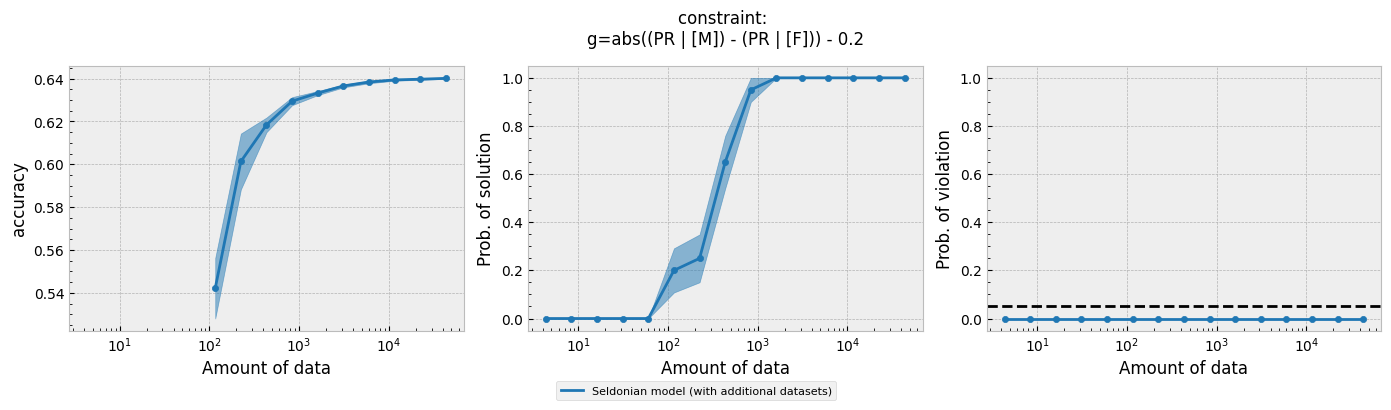
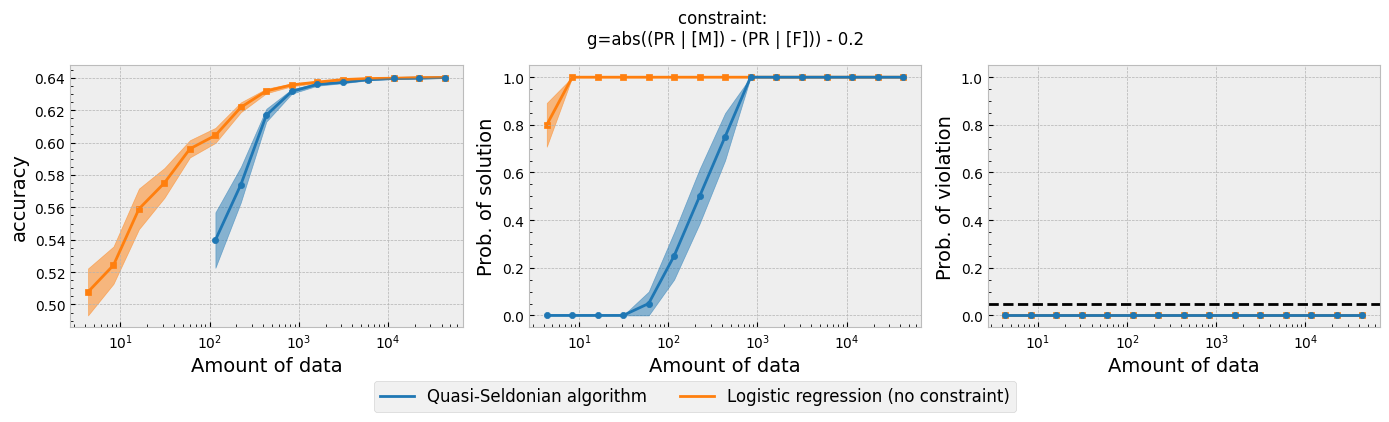
make first draft of addl datasets tutorial live

diff --git a/_includes/header.html b/_includes/header.html
@@ -99,6 +99,8 @@ src="https://www.facebook.com/tr?id=1699336040584421&ev=PageView&noscript=1"
                             <li><a class="dropdown-item" href="{{ "/tutorials/dtree_tutorial/" | relative_url}}"> (L) Creating Fair Decision Trees and Random Forests (for binary classification) </a></li>
 
                             <li><a class="dropdown-item" href="{{ "/tutorials/parallelization_tutorial/" | relative_url}}"> (M) Efficient parallelization with the toolkit </a></li>
+
+                            <li><a class="dropdown-item" href="{{ "/tutorials/addl_datasets_tutorial/" | relative_url}}"> (N) Using multiple datasets with the toolkit </a></li>
                             
 
                         </ul>

diff --git a/_tutorials/addl_datasets.md b/_tutorials/addl_datasets.md
@@ -8,7 +8,7 @@ prev_page_name: (M) Efficient parallelization with the toolkit
 <!-- Main Container -->
 <div class="container p-3 my-2 border" style="background-color: #f3f4fc;">
     
-<h2 align="center" class="mb-3">Tutorial N: Using additional datasets for constraints </h2>
+<h2 align="center" class="mb-3">Tutorial N: Using multiple datasets with the toolkit </h2>
 
 <hr class="my-4">
 
@@ -43,7 +43,10 @@ prev_page_name: (M) Efficient parallelization with the toolkit
 </p>
 
 <p>
-    <b>Note:</b> It is important to ensure that if there are shared data points between the primary dataset and additional datasets that no data points that are used in candidate selection for any purpose are used during the safety test. We leave this up to the user; there are no checks in the Seldonian Toolkit to ensure that no data are shared.
+    <b>Note 1:</b> It is important to ensure that if there are shared data points between the primary dataset and additional datasets that no data points that are used in candidate selection for any purpose are used during the safety test. We leave this up to the user; there are no checks in the Seldonian Toolkit to ensure that no data are shared.
+</p>
+<p>
+    <b>Note 2:</b> Additional datasets are currently only supported for Supervised Learning problems with the toolkit.
 </p>
 
 
@@ -424,19 +427,23 @@ if __name__ == '__main__':
 <div class="container p-3 my-2 border" style="background-color: #f3f4fc;">
 <h3 id="experiment"> Running a Seldonian Experiment with Additional Datasets </h3>
 <p>
-    As we saw in the previous section, running the engine with additional datasets requires very little modification beyond the normal procedure. The only differences were the inclusion of the <code class="codesnippet">additional_datasets</code>, <code class="codesnippet">candidate_dataset</code>, and <code class="codesnippet">safety_dataset</code> parameters when building the spec object. We will use the same spec object to run an experiment. There are some additional points we need to consider with experiments that have additional datasets. 
+    As we saw in the previous section, running the engine with additional datasets requires very little modification beyond the normal procedure. The only requirement is the inclusion of the <code class="codesnippet">additional_datasets</code> parameter. We also introduced the <code class="codesnippet">candidate_dataset</code> and <code class="codesnippet">safety_dataset</code> parameters, but those are not necessary for all additional dataset applications. When running Seldonian Experiments with additional datasets for the base noddes, there are some additional considerations beyond what we have covered so far.
 </p>
 
 <p>
-    Both the primary dataset and the additional datasets are resampled when making the trial datasets. After running an experiment with primary and additional datasets, you will notice that there are multiple sets of files in the <code class="codesnippet">resampled_datasets/</code> folder, one with the file pattern: <code class="codesnippet">resampled_datasets/trial_{trial_index}.pkl</code> and another with <code class="codesnippet">resampled_datasets/trial_{trial_index}_addl_datasets.pkl</code>. The latter contain the additional datasets dictionaries to be used for each trial. As with the resampled primary datasets, the resampled additional datasets are of the same size as the original resampled datasets provided in the spec object. This happens behind the scenes, and does not require any user input to enable it. 
+    Both the primary dataset and the additional datasets are resampled when the trial datasets are made. After running an experiment with primary and additional datasets, you will notice that there are multiple sets of files in the <code class="codesnippet">resampled_datasets/</code> folder. The resampled primary datasets keep the extant file pattern: <code class="codesnippet">resampled_datasets/trial_{trial_index}.pkl</code>, and the additional resampled dataset dictionaries are saved with the pattern <code class="codesnippet">resampled_datasets/trial_{trial_index}_addl_datasets.pkl</code>. As with the resampled primary datasets, the resampled additional datasets are of the same size as the original resampled datasets provided in the spec object. This happens behind the scenes, and does not require any user input to enable. 
 </p>
 
 <p>
-    Seldonian experiments require held-out ground truth datasets to evaluate two of the three plots. These are the performance plot (left plot) and probability of constraint violation plot (right plot). Until the introduction of additional datasets, both plots were evaluated on a single held out dataset. With the introduction of additional datasets, however, we support providing a held out primary dataset and held out additional datasets. The held out primary dataset is used to evaluate the performance plot and the held out additional datasets are used to evaluate the probability of constraint violation plot. 
+    When the spec object contains explicit candidate and safety datasets, as in our example spec object above, the primary resampled datasets are saved with the file pattern: <code class="codesnippet">resampled_datasets/trial_{trial_index}_candidate_dataset.pkl</code> and <code class="codesnippet">resampled_datasets/trial_{trial_index}_safety_dataset.pkl</code>. The additional resampled dataset files are unaffected. 
 </p>
 
 <p>
-    The held out primary dataset is provided in the same way as it has always been provided, i.e., via the <code class="codesnippet">perf_eval_kwargs</code> dictionary parameter to the plot generator object. The held out additional datasets are provided via the <code class="codesnippet">"additional_datasets"</code> key to the <code class="codesnippet">constraint_eval_kwargs</code> dictionary parameter to the plot generator object. Below is an example script to run a Seldonian experiment using a held out primary dataset and a held out additional dataset for both base nodes. All of the other parameters are identical to the experiment run in <a href="{{ "/tutorials/science_GPA_tutorial" | relative_url }}">Tutorial E: Predicting student GPAs from application materials with fairness guarantees</a>, except that here we do not run any of the baselines because the baseline results are identical to those in Tutorial E. 
+    Seldonian experiments require held-out ground truth datasets to evaluate the first plot (performance) and last plot (probability of constraint violation plot). Until the introduction of additional datasets, both plots were evaluated using a single held out dataset. With the introduction of additional datasets, we added support for providing held out datasets for the primary dataset and additional datasets separately. The held out primary dataset is used to evaluate the performance plot and the held out additional datasets are used to evaluate the probability of constraint violation plot. 
+</p>
+
+<p>
+    The held out primary dataset is provided using the extant pattern, i.e., via the <code class="codesnippet">perf_eval_kwargs</code> dictionary parameter to the plot generator object. The held out additional datasets are provided via the <code class="codesnippet">"additional_datasets"</code> key to the <code class="codesnippet">constraint_eval_kwargs</code> dictionary parameter to the plot generator object. Below is an example script to run a Seldonian experiment using a held out primary dataset and a held out additional dataset for both base nodes. The held out primary dataset is the original dataset from Tutorial E, and the held out additional datasets are the additional datasets we defined for the spec object above. Below is a script to run this experiment. Besides for the modifications just described, the script is very similar to the one used to run the experiment in Tutorial E. We include a binary logistic regressor as a baseline, but exclude the Fairlearn baselines in this tutorial. 
 </p>
 
 
@@ -444,19 +451,17 @@ if __name__ == '__main__':
 <input type="button" style="float: right" class="btn btn-sm btn-secondary" onclick="copy2Clipboard(this)" value="Copy code snippet">
 {% highlight python %}
 import os
+os.environ["OMP_NUM_THREADS"] = "1"
 import numpy as np 
 
 from experiments.generate_plots import SupervisedPlotGenerator
 from experiments.baselines.logistic_regression import BinaryLogisticRegressionBaseline
-from experiments.baselines.random_classifiers import (
-    UniformRandomClassifierBaseline,WeightedRandomClassifierBaseline)
-from experiments.baselines.random_forest import RandomForestClassifierBaseline
 from seldonian.utils.io_utils import load_pickle
+from seldonian.dataset import SupervisedDataSet
 from sklearn.metrics import log_loss,accuracy_score
 
 def perf_eval_fn(y_pred,y,**kwargs):
-    # Deterministic accuracy. Should really be using probabilistic accuracy, 
-    # but use deterministic to match Thomas et al. (2019)
+    # Deterministic accuracy to match Thomas et al. (2019)
     return accuracy_score(y,y_pred > 0.5)
 
 def initial_solution_fn(m,X,Y):
@@ -467,7 +472,7 @@ def main():
     run_experiments = True
     make_plots = True
     save_plot = True
-    include_legend = True
+    include_legend = False
 
     model_label_dict = {
         'qsa':'Seldonian model (with additional datasets)',
@@ -478,28 +483,28 @@ def main():
     n_trials = 20
     data_fracs = np.logspace(-4,0,15)
     n_workers = 8
-    results_dir = f'results/test_demographic_parity'
+    results_dir = f'results/demographic_parity_nodups'
     plot_savename = os.path.join(results_dir,f'gpa_{constraint_name}_{performance_metric}.png')
 
-    verbose=True
+    verbose=False
 
     # Load spec
-    specfile = f'specfiles/demographic_parity_addl_datasets.pkl'
+    specfile = f'specfiles/demographic_parity_addl_datasets_nodups.pkl'
     spec = load_pickle(specfile)
-
     os.makedirs(results_dir,exist_ok=True)
 
-    # Use entire original primary dataset as ground truth for test set
-    dataset = spec.dataset
-    test_features = dataset.features
-    test_labels = dataset.labels
+    # Combine primary candidate and safety datasets to be used as ground truth for performance plotd
+    test_dataset = spec.candidate_dataset + spec.safety_dataset 
+
+    test_features = test_dataset.features
+    test_labels = test_dataset.labels
 
     # Setup performance evaluation function and kwargs 
     perf_eval_kwargs = {
         'X':test_features,
         'y':test_labels,
         'performance_metric':performance_metric
-        }
+    }
 
     # Use original additional_datasets as ground truth (for evaluating safety)
     constraint_eval_kwargs = {}
@@ -516,22 +521,29 @@ def main():
         constraint_eval_kwargs=constraint_eval_kwargs,
         results_dir=results_dir,
         perf_eval_kwargs=perf_eval_kwargs,
-        )
+    )
 
     if run_experiments:
+
+        # Logistic regression baseline
+        lr_baseline = BinaryLogisticRegressionBaseline()
+        plot_generator.run_baseline_experiment(
+            baseline_model=lr_baseline,verbose=False)
 
         # Seldonian experiment
         plot_generator.run_seldonian_experiment(verbose=verbose)
 
 
     if make_plots:
-        plot_generator.make_plots(fontsize=12,legend_fontsize=8,
+        plot_generator.make_plots(
+            tot_data_size=test_dataset.num_datapoints,
+            fontsize=12,
+            legend_fontsize=8,
             performance_label=performance_metric,
             include_legend=include_legend,
             model_label_dict=model_label_dict,
             save_format="png",
             savename=plot_savename if save_plot else None)
-
 
 if __name__ == "__main__":
     main()
@@ -544,21 +556,23 @@ Running the script above will produce the following plot (one or very similar de
 <div align="center">
     <figure>
         <img src="{{ "/assets/img/additional_datasets_tutorial/gpa_demographic_parity_accuracy.png" | relative_url}}" class="img-fluid mt-4" style="width: 90%"  alt="Disparate impact"> 
-        <figcaption align="left"> <b>Figure 1</b> - The three plots of a Seldonian Experiment for  the GPA classification problem studied in this tutorial. </figcaption>
+        <figcaption align="left"> <b>Figure 1</b> - The three plots of a Seldonian Experiment for the modified GPA classification problem studied in this tutorial.   </figcaption>
     </figure>
 </div>  
 <p>
-The three plots shown in Figure 1 are similar to the Quasi-Seldonian algorithm curve in the demographic parity plot shown in Figure 1 of Tutorial E. The difference 
+The three plots in Figure 1 are similar to the demographic parity plot shown in Figure 1 of Tutorial E, as expected. The main difference is that it appears that more data are needed to achieve a high probability of solution (middle). However, care must be taken when interpreting these three plots when additional datasets are used. The "Amount of Data" label for the horizontal axes refers to the amount of data in the <b>primary dataset</b> for a given data fraction, and gives no indication of the size of additional dataset. One can derive the size of the additional datasets used in any given trial by knowing the total size of the additional datasets and multiplying it by the data fraction. The additional dataset is 30% the size of the full GPA dataset, for reference. For a data fraction of 0.5, for example, the "Amount of Data" would be half the size of the primary dataset, or 43303*0.5 = 21651. For the same data fraction, the size of the additional dataset is 30% of this, or only about 6500. This is why is appears to take more data to achieve the same probability of solution as the experiment in Tutorial E. 
 </p>
-<p>
-The largest differences between our experiments and those done by Thomas et al. are in the Fairlearn results. The newer Fairlearn models that we ran achieve near-optimal accuracy with almost any amount of data. The older Fairlearn models never reached optimal accuracy in the experiments performed by Thomas et al. The Fairlearn API has changed considerably since Thomas et al. used it, and more fairness constraints can be included in their models. That being said, their models continue to violate the fairness constraints. In particular, the disparate impact constraint is violated with high probability over the most of the sample sizes considered. This is not surprising given that the Fairlearn models do not have a safety test; their models make no guarantee that they will not violate the constraints on unseen data. 
-</p>
+
 </div>
 
 <div class="container p-3 my-2 border" style="background-color: #f3f4fc;">
 <h3 id="summary">Summary</h3>
 <p>
-In this tutorial, we demonstrated how to use the Seldonian Toolkit to recreate the analysis performed by Thomas et al. (2019) using the GPA classification dataset. In particular, we sought to recreate their Figure 3. We showed how to format the dataset so that it can be used in the Seldonian Toolkit. Using the same five fairness constraints that Thomas et al. (2019) considered, we ran a Seldonian Experiment for each constraint. We produced the three plots: accuracy, solution rate, and failure rate, finding similar overall trends as Thomas et al. The quasi-Seldonian algorithms we ran slightly outperformed those run by Thomas et al. (2019), but in general were very similar. The main differences we found were in the Fairlearn models. The differences we observed are easily explained by updates to the Fairlearn API that took place since 2019. Due to compatibility issues, we were unable to use the same Fairlearn API version as Thomas et al. with the newer Python versions required by the Seldonian Toolkit.  
+In this tutorial, we demonstrated how to use additional datasets for bounding base nodes. This feature could be useful in scenarios where only a fraction of their data have sensitive attributes. This feature can also be used with completely different datasets for the primary objective and the base nodes. This can be useful when fine-tuning large models subject to behavioral constraints, where one wants to use a pre-existing loss function as the primary objective and custom behavioral constraints. 
+</p>
+
+<p>
+We demonstrated how to specify additional datasets when building the specification object. We also showed how to use another new feature where the candidate and safety sets are specified explicitly. This feature can be useful on its own (i.e., without using additional datasets), but is particularly helpful when one wants to ensure that there are no shared data points between candidate data and safety data across primary and additional datasets. We first ran the Seldonian Engine using the modified spec object. Then, we ran a Seldonian Experiment, demonstrating how to specify held out datasets when one has additional datasets. We pointed out that interpreting the three plots of a Seldonian Experiment is more complicated when additional datasets are used, as evidenced by the apparent difference betwen the middle plot in Figure 1 compared to the same plot in Tutorial E. 
 </p>
 
 </div>

diff --git a/tutorials.md b/tutorials.md
@@ -58,6 +58,10 @@ title: Seldonian \| Tutorials
                 <a href="{{ "/tutorials/parallelization_tutorial/" | relative_url}}"> (M) Efficient parallelization with the toolkit </a>
             </li>
 
+            <li>
+                <a href="{{ "/tutorials/addl_datasets_tutorial/" | relative_url}}"> (N) Using multiple datasets with the toolkit </a>
+            </li>
+
         </ol>
     </div>
 

diff --git a/_tutorials/parallel_tutorial.md b/_tutorials/parallel_tutorial.md
@@ -3,6 +3,8 @@ layout: tutorial
 permalink: /tutorials/parallelization_tutorial/
 prev_url: /tutorials/dtree_tutorial/
 prev_page_name: (L) Creating Fair Decision Trees and Random Forests (for binary classification)
+next_url: /tutorials/addl_datasets_tutorial/
+next_page_name: (N) Using multiple datasets with the toolkit
 title: Seldonian \| Tutorial M
 ---
 
